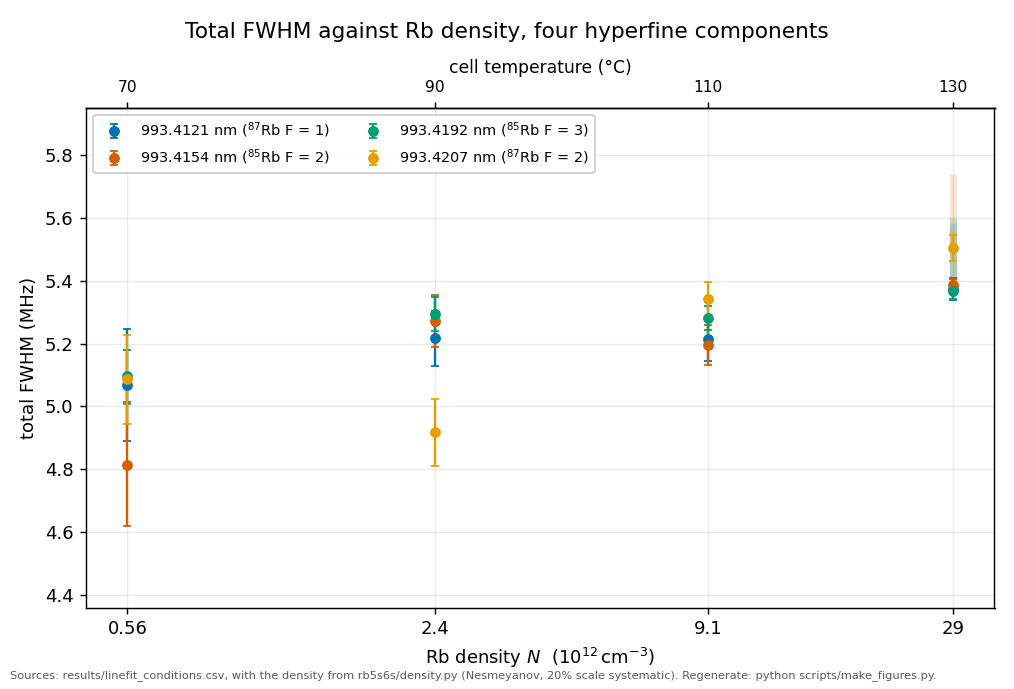
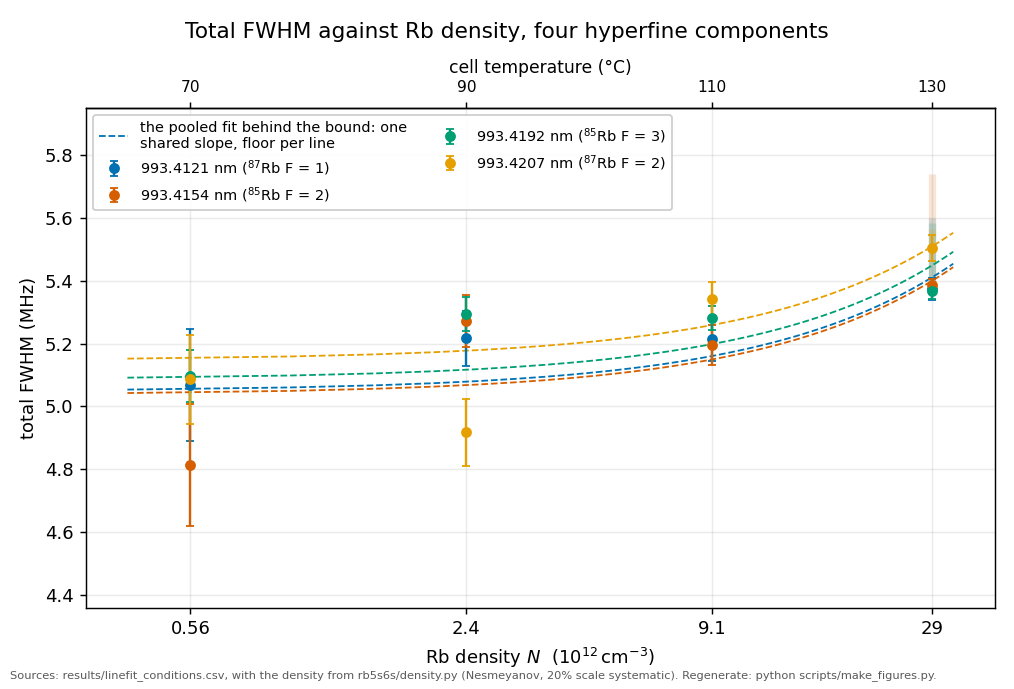
Draw the model on every data figure that lacked one
The owner, reading the outbound note, found data figures with nothing of
the model on them, and on the power sweep asked the sharper question:
the points visibly wander by more than their bars, so in what sense is
the width flat?

The answer was in the record and not on the canvas. The bars carry only
the repeat scatter within a block; each power is its own block,
re-centred by hand after lock dropouts, and the between-block scatter is
not in the bars. fig2's left panel now draws all of it: the flat fitted
model (S0 rails at zero, offset fitted per line), a per-line band of
that line's own scatter about flat, the grey ramp increment allowed at
the committed 95 per cent bound, and an annotation computing the
ledger's two numbers at draw time, the observed spread (3 to 8 per cent)
and the worst per-peak slope with the over-dispersion absorbed (1.6
sigma). A first version computed a pooled RMS and a line-model
inflation instead, 1.9 per cent and 2.5 sigma beside a ledger saying 3
to 8 and 1.7: not wrong, but different metrics wearing the same words,
which is the drift the canonical-number rule exists to stop. The
docstring's own 1.7 now defers to the drawn computation.

fig1 gains the pooled fit behind the headline bound, one shared
collisional slope with a floor per line, slope read from
beta_self_probe.csv and floors re-anchored at draw time. fig10's right
panel gains the same flat-plus-band treatment as fig2, on its own
[…]

diff --git a/scripts/make_figures.py b/scripts/make_figures.py
@@ -178,6 +178,7 @@ def fig_width_vs_density():
     rows = _rows("linefit_conditions")
     fig, ax = plt.subplots(figsize=(7.8, 5.3))
     N130 = density_units(130.0)
+    _series = {}
     for peak in ("4121", "4154", "4192", "4207"):
         pts, p130 = [], []
         for r in rows:
@@ -208,6 +209,24 @@ def fig_width_vs_density():
         # reads the segment slopes as rates. Colour carries the series.
         ax.errorbar(N, W, yerr=We, fmt="o", color=PEAK_COLOR[peak],
                     label=PEAK_LABEL[peak], ms=5, capsize=2, lw=1.3, zorder=3)
+        _series[peak] = (np.array(N), np.array(W), np.array(We))
+    # THE MODEL THE RECORD FITS, drawn over the data it was fitted to
+    # (2026-08-12, owner audit: this figure showed data with no model on it).
+    # One shared collisional slope with a floor per line is the construction
+    # the headline bound comes from (results/beta_self_probe.csv, the pooled
+    # row), so that is the line to draw: slope from the CSV, floor re-anchored
+    # per line at draw time, testing the slope claim only, exactly as fig2's
+    # flat lines test only the shape.
+    _bpool = next(float(r["beta_eff"]) for r in _rows("beta_self_probe")
+                  if r["peak"] == "pooled_slope")
+    _ngrid = np.linspace(0.4, 33.0, 60)
+    for _i, (_pk, (_N, _W, _We)) in enumerate(sorted(_series.items())):
+        _off = float(np.sum((_W - _bpool * _N) / _We ** 2)
+                     / np.sum(1.0 / _We ** 2))
+        ax.plot(_ngrid, _off + _bpool * _ngrid, "--", color=PEAK_COLOR[_pk],
+                lw=1.0, zorder=2,
+                label="the pooled fit behind the bound: one\n"
+                      "shared slope, floor per line" if _i == 0 else None)
     ax.set_xscale("log")
     ax.set_ylim(4.36, 5.95)
     ax.set_xticks([density_units(T) for T in (70.0, 90.0, 110.0, 130.0)])
@@ -238,7 +257,9 @@ def fig_power_sweep():
     The observed FWHM spread (3-8%) EXCEEDS the <=2% the ramp law predicts,
     so the title must not present the prediction as the observation -- it is
     between-block scatter, and no peak keeps a significant slope once that
-    over-dispersion is absorbed (worst 1.7 sigma). Titling this "flat" read
+    over-dispersion is absorbed. The panel computes and prints both numbers
+    at draw time (the spread and the worst slope significance), so this
+    docstring carries no second copy of either. Titling this "flat" read
     as a claim the plotted points do not support."""
     rows = _rows("power_sweep")
     by = defaultdict(list)
@@ -284,20 +305,63 @@ def fig_power_sweep():
     _base = _stark._fwhm_of(_gc, _sl, _tr, 0.0, _nu)
     _inc = np.array([_stark._fwhm_of(_gc, _sl, _tr, _s0_ub * p / 225.0, _nu)
                      for p in _pgrid]) - _base
-    _wbars = []
-    for i, peak in enumerate(("4121", "4154", "4192", "4207")):
+    # THE WANDER IS BETWEEN-BLOCK SCATTER, AND THE PANEL NOW SAYS SO
+    # (2026-08-12, owner reading: the points move by more than their bars, so
+    # the flat model looked contradicted). The bars are repeat scatter within
+    # a block; each power is its own block, re-centred by hand after lock
+    # dropouts, and that between-block motion is not in the bars. Two objects
+    # carry the adjudication on the canvas rather than in a docstring: a band
+    # of the pooled fractional between-block scatter around each flat line,
+    # and the worst per-peak slope significance once that over-dispersion is
+    # absorbed, computed here at draw time.
+    # Both numbers on the canvas are the LEDGER'S OWN metrics (RESULTS C3a),
+    # recomputed here at draw time rather than restated: the observed spread
+    # is each peak's max-minus-min over the five power blocks as a fraction of
+    # its mean, quoted as the range across peaks, and the slope test inflates
+    # the slope error by the flat model's own over-dispersion (the PDG scale
+    # factor, the record's treatment elsewhere), which is what "absorbed"
+    # means. A first version computed a pooled RMS and a line-model inflation
+    # instead, which gave 1.9 per cent and 2.5 sigma beside a ledger that says
+    # 3 to 8 and 1.7: not wrong, just DIFFERENT metrics wearing the same
+    # words, which is the drift the canonical-number rule exists to stop.
+    _wbars, _spreads, _tworst, _rms_p = [], [], 0.0, []
+    for peak in ("4121", "4154", "4192", "4207"):
         d = sorted(by[peak])
+        Pv = np.array([x[0] for x in d], float)
         w = np.array([x[1] for x in d]); e = np.array([x[2] for x in d])
-        wbar = float(np.sum(w / e ** 2) / np.sum(1.0 / e ** 2))
+        Wt = 1.0 / e ** 2
+        wbar = float(np.sum(w * Wt) / np.sum(Wt))
         _wbars.append(wbar)
+        _spreads.append((w.max() - w.min()) / wbar)
+        _rms_p.append(float(np.sqrt(np.mean((w - wbar) ** 2))))
+        chi2r_flat = float(np.sum(Wt * (w - wbar) ** 2) / (w.size - 1))
+        xm = np.sum(Wt * Pv) / np.sum(Wt); ym = np.sum(Wt * w) / np.sum(Wt)
+        bslope = float(np.sum(Wt * (Pv - xm) * (w - ym))
+                       / np.sum(Wt * (Pv - xm) ** 2))
+        sb = float(np.sqrt(1.0 / np.sum(Wt * (Pv - xm) ** 2)))
+        _tworst = max(_tworst, abs(bslope) / (sb * np.sqrt(max(chi2r_flat, 1.0))))
+    for i, (peak, wbar, rms) in enumerate(zip(("4121", "4154", "4192", "4207"),
+                                              _wbars, _rms_p)):
         a1.plot([_pgrid[0], _pgrid[-1]], [wbar, wbar], "--",
                 color=PEAK_COLOR[peak], lw=1.0,
                 label="fitted model, flat because $S_0$\n"
                       "rails at zero (offset fitted)" if i == 0 else None)
+        a1.fill_between(_pgrid, wbar - rms, wbar + rms,
+                        color=PEAK_COLOR[peak], alpha=0.08, lw=0,
+                        label="between-block scatter, the part\n"
+                              "the per-point bars do not carry"
+                        if i == 0 else None)
     _wm = float(np.mean(_wbars))
     a1.fill_between(_pgrid, _wm, _wm + _inc, color="0.55", alpha=0.25, lw=0,
                     label="ramp increment allowed at the\n"
                           r"95% bound on $S_0$ (over the mean)")
+    a1.text(0.03, 0.97,
+            f"observed spread {100 * min(_spreads):.0f}\u2013"
+            f"{100 * max(_spreads):.0f}% across the five blocks.\n"
+            "worst per-peak slope, with that\n"
+            f"over-dispersion absorbed: {_tworst:.1f}$\\sigma$",
+            transform=a1.transAxes, fontsize=7.4, color="0.30", va="top")
+    a1.legend(fontsize=8, loc="lower right")
     a1.set_xlabel("power (mW)")
     # Estimator named on the axis: this panel's widths are the raw
     # half-maximum widths of results/power_sweep.csv, averaged over repeats.
@@ -306,7 +370,6 @@ def fig_power_sweep():
     # unlabelled "FWHM" on both invites the reader to compare them directly.
     a1.set_ylabel("measured FWHM (MHz)")
     a1.set_title("(a) measured FWHM against drive power", fontsize=9)
-    a1.legend(fontsize=8)
     # amplitude log-log: a slope-2 REFERENCE anchored to each peak's own data,
     # so the guide tracks the points instead of floating beside them. The slope
     # is held at 2 and only the offset is fitted, so the line cannot test the
@@ -1114,6 +1177,24 @@ def fig_degeneracy_vs_observable():
         # other into a trend the panel's own title says is not there.
         ax2.errorbar(P[m][o], tw[m][o], yerr=twe[m][o], fmt="o", ms=4,
                      lw=1.0, capsize=2, color=PEAK_COLOR[pk], label=f"993.{pk} nm")
+    # The same flat-model overlay and between-block band fig2's left panel
+    # carries (2026-08-12 audit: this was the last data panel with no model on
+    # it). Same construction, this estimator's own numbers: flat line at each
+    # peak's weighted mean, band at that peak's RMS about it.
+    _pg = np.array([20.0, 230.0])
+    for _i, _pk in enumerate(PEAK_COLOR):
+        _m = [i for i, p in enumerate(peaks) if p == _pk]
+        if not _m:
+            continue
+        _w = tw[_m]; _e = twe[_m]
+        _wt = 1.0 / _e ** 2
+        _wb = float(np.sum(_w * _wt) / np.sum(_wt))
+        _rm = float(np.sqrt(np.mean((_w - _wb) ** 2)))
+        ax2.plot(_pg, [_wb, _wb], "--", color=PEAK_COLOR[_pk], lw=0.9,
+                 label="flat fitted model, offset fitted" if _i == 0 else None)
+        ax2.fill_between(_pg, _wb - _rm, _wb + _rm, color=PEAK_COLOR[_pk],
+                         alpha=0.08, lw=0,
+                         label="between-block scatter" if _i == 0 else None)
     ax2.set_xlabel("power (mW)")
     # Estimator named: this is the fitted total width of the joint
     # per-condition fit, which runs above fig2's raw half-maximum widths on
